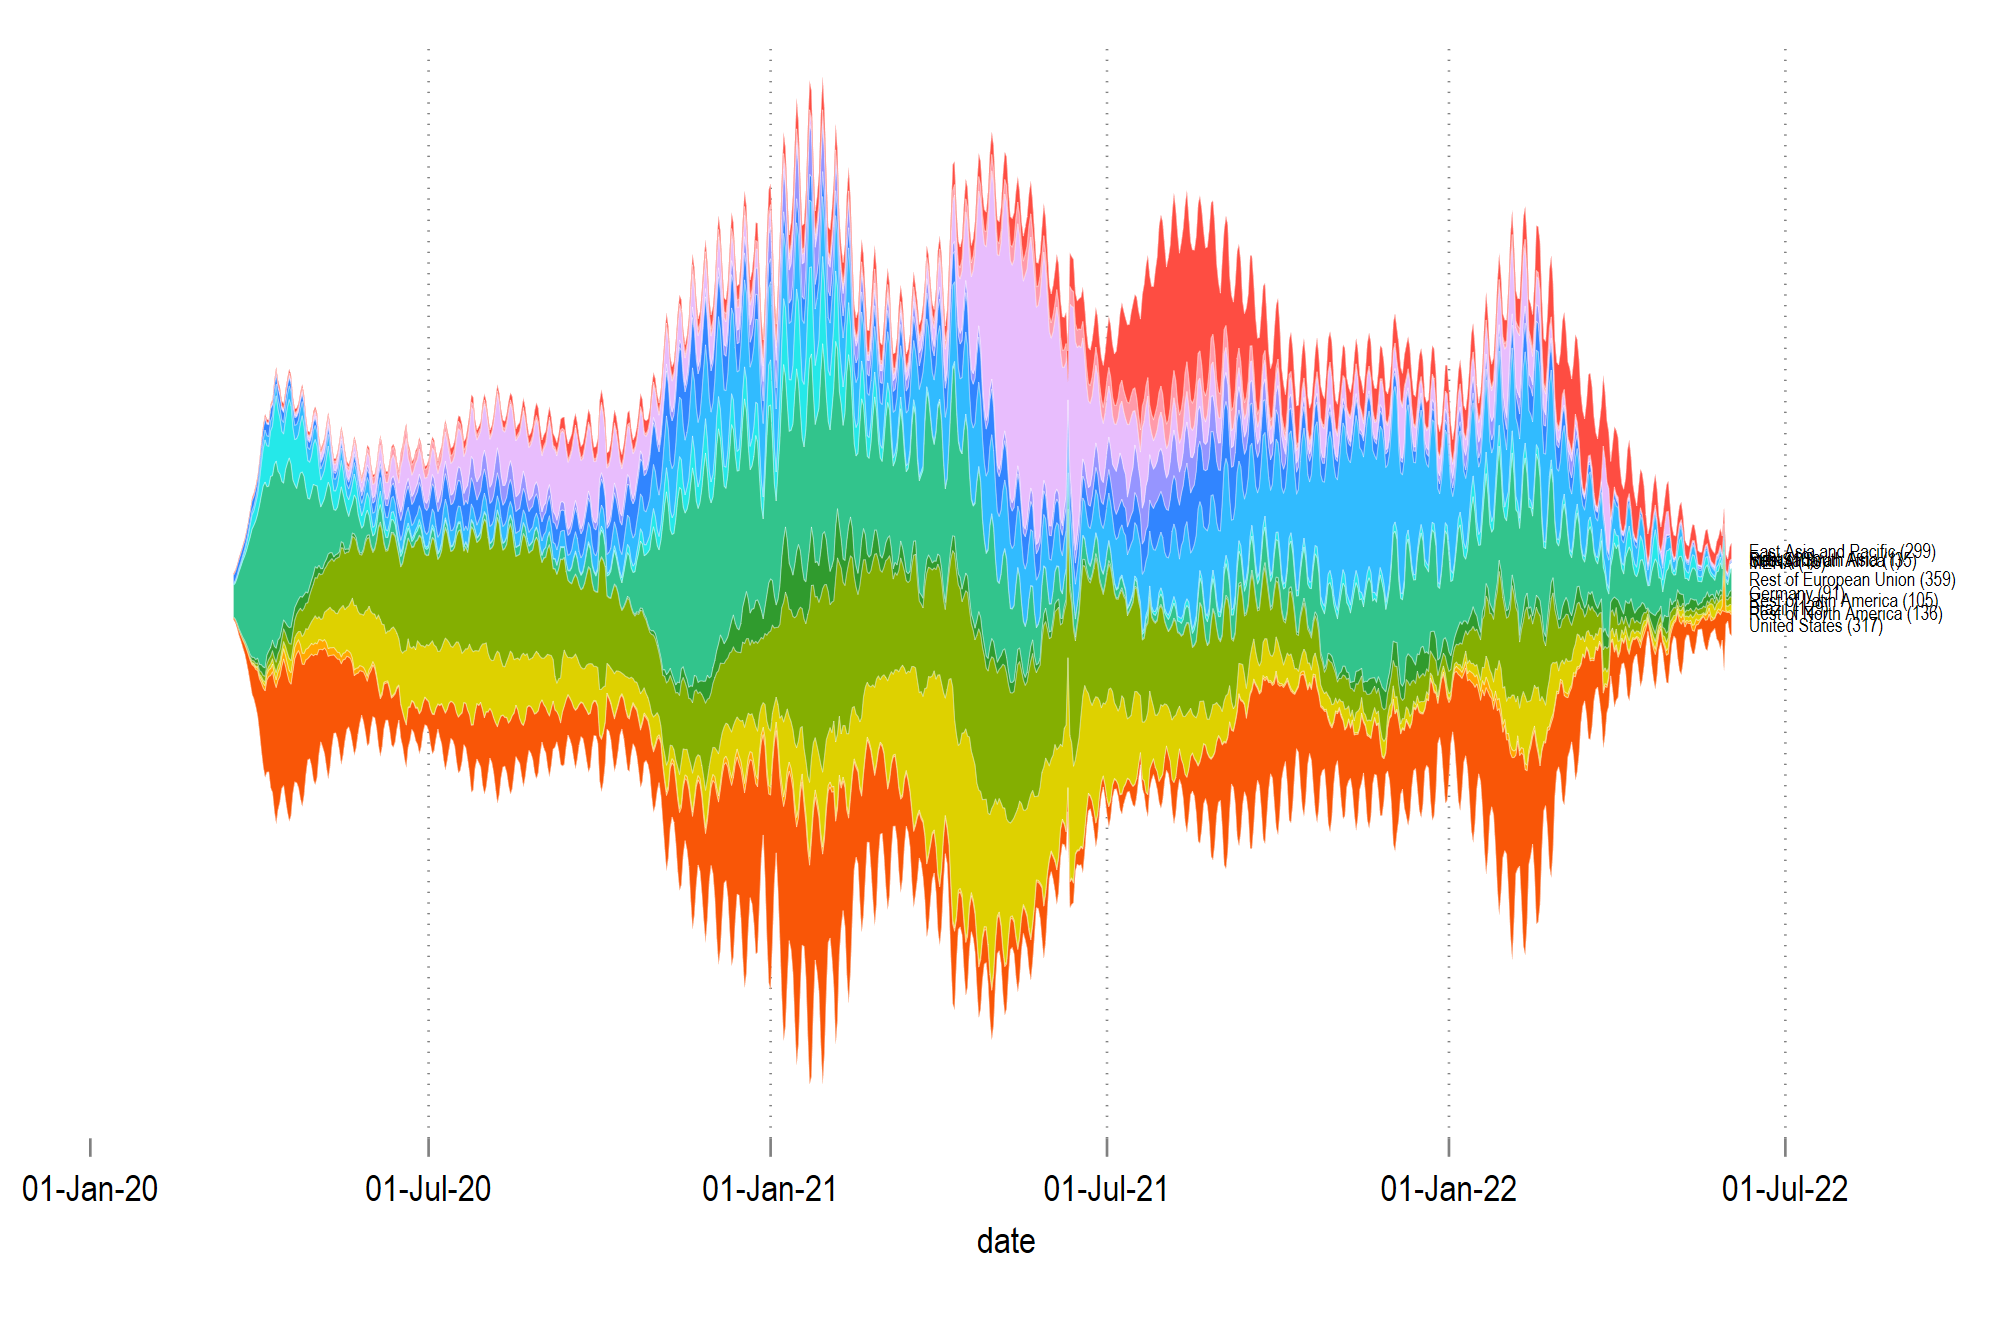
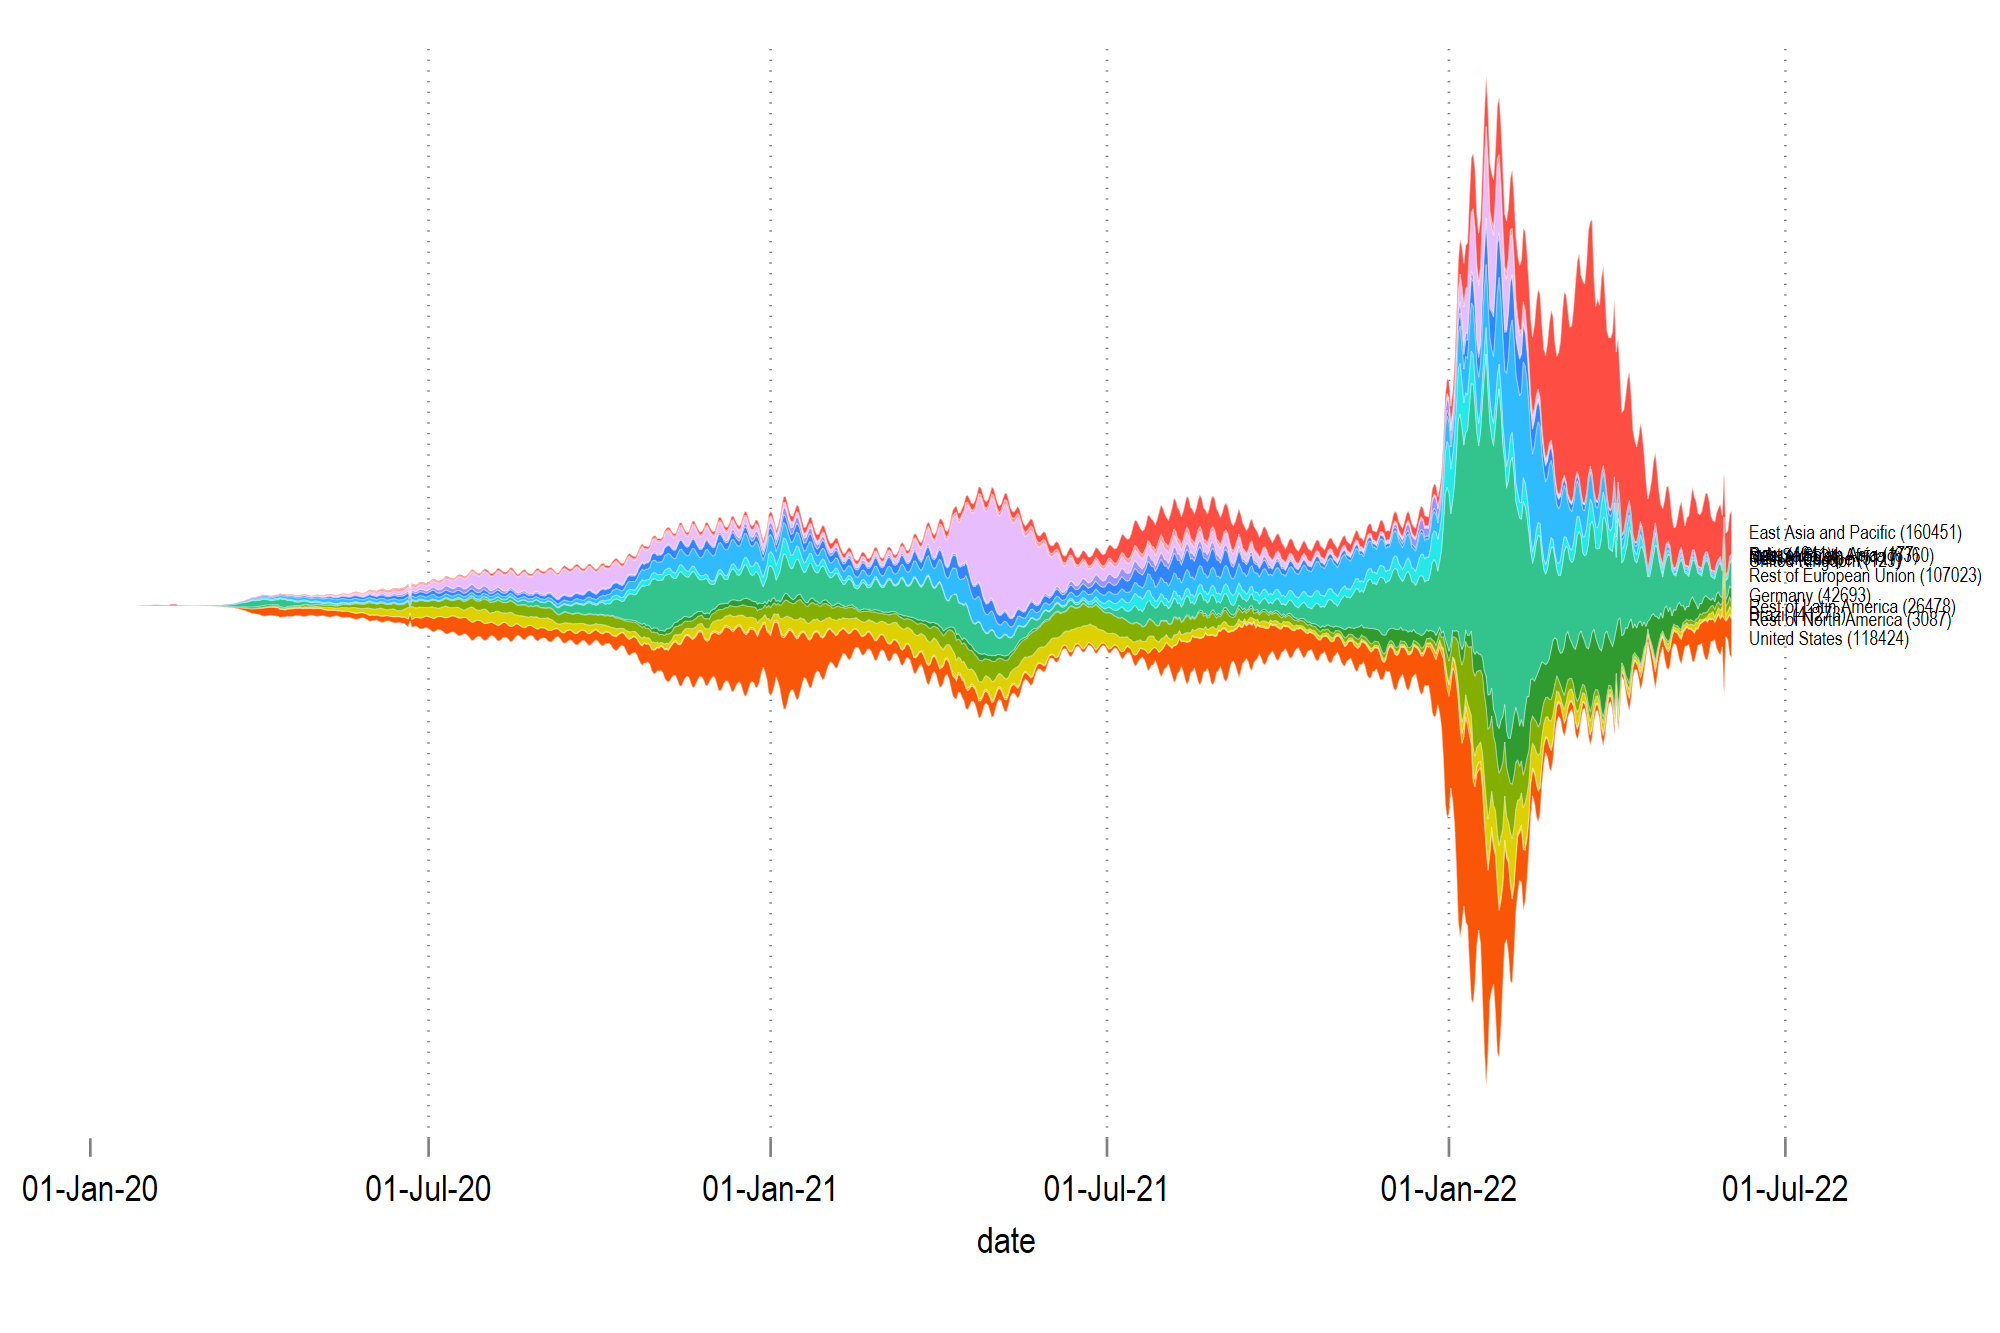
v1.2 update

Changed region(s): [[0.093, 0.0615, 0.992, 0.7997]]

diff --git a/README.md b/README.md
@@ -112,7 +112,7 @@ keep date new_cases country region
 We can generate basic graphs as follows:
 
 ```
-streamplot new_deaths date, by(region)
+streamplot new_cases date, by(region)
 ```
 
 <img src="/figures/streamplot1.png" height="600">
